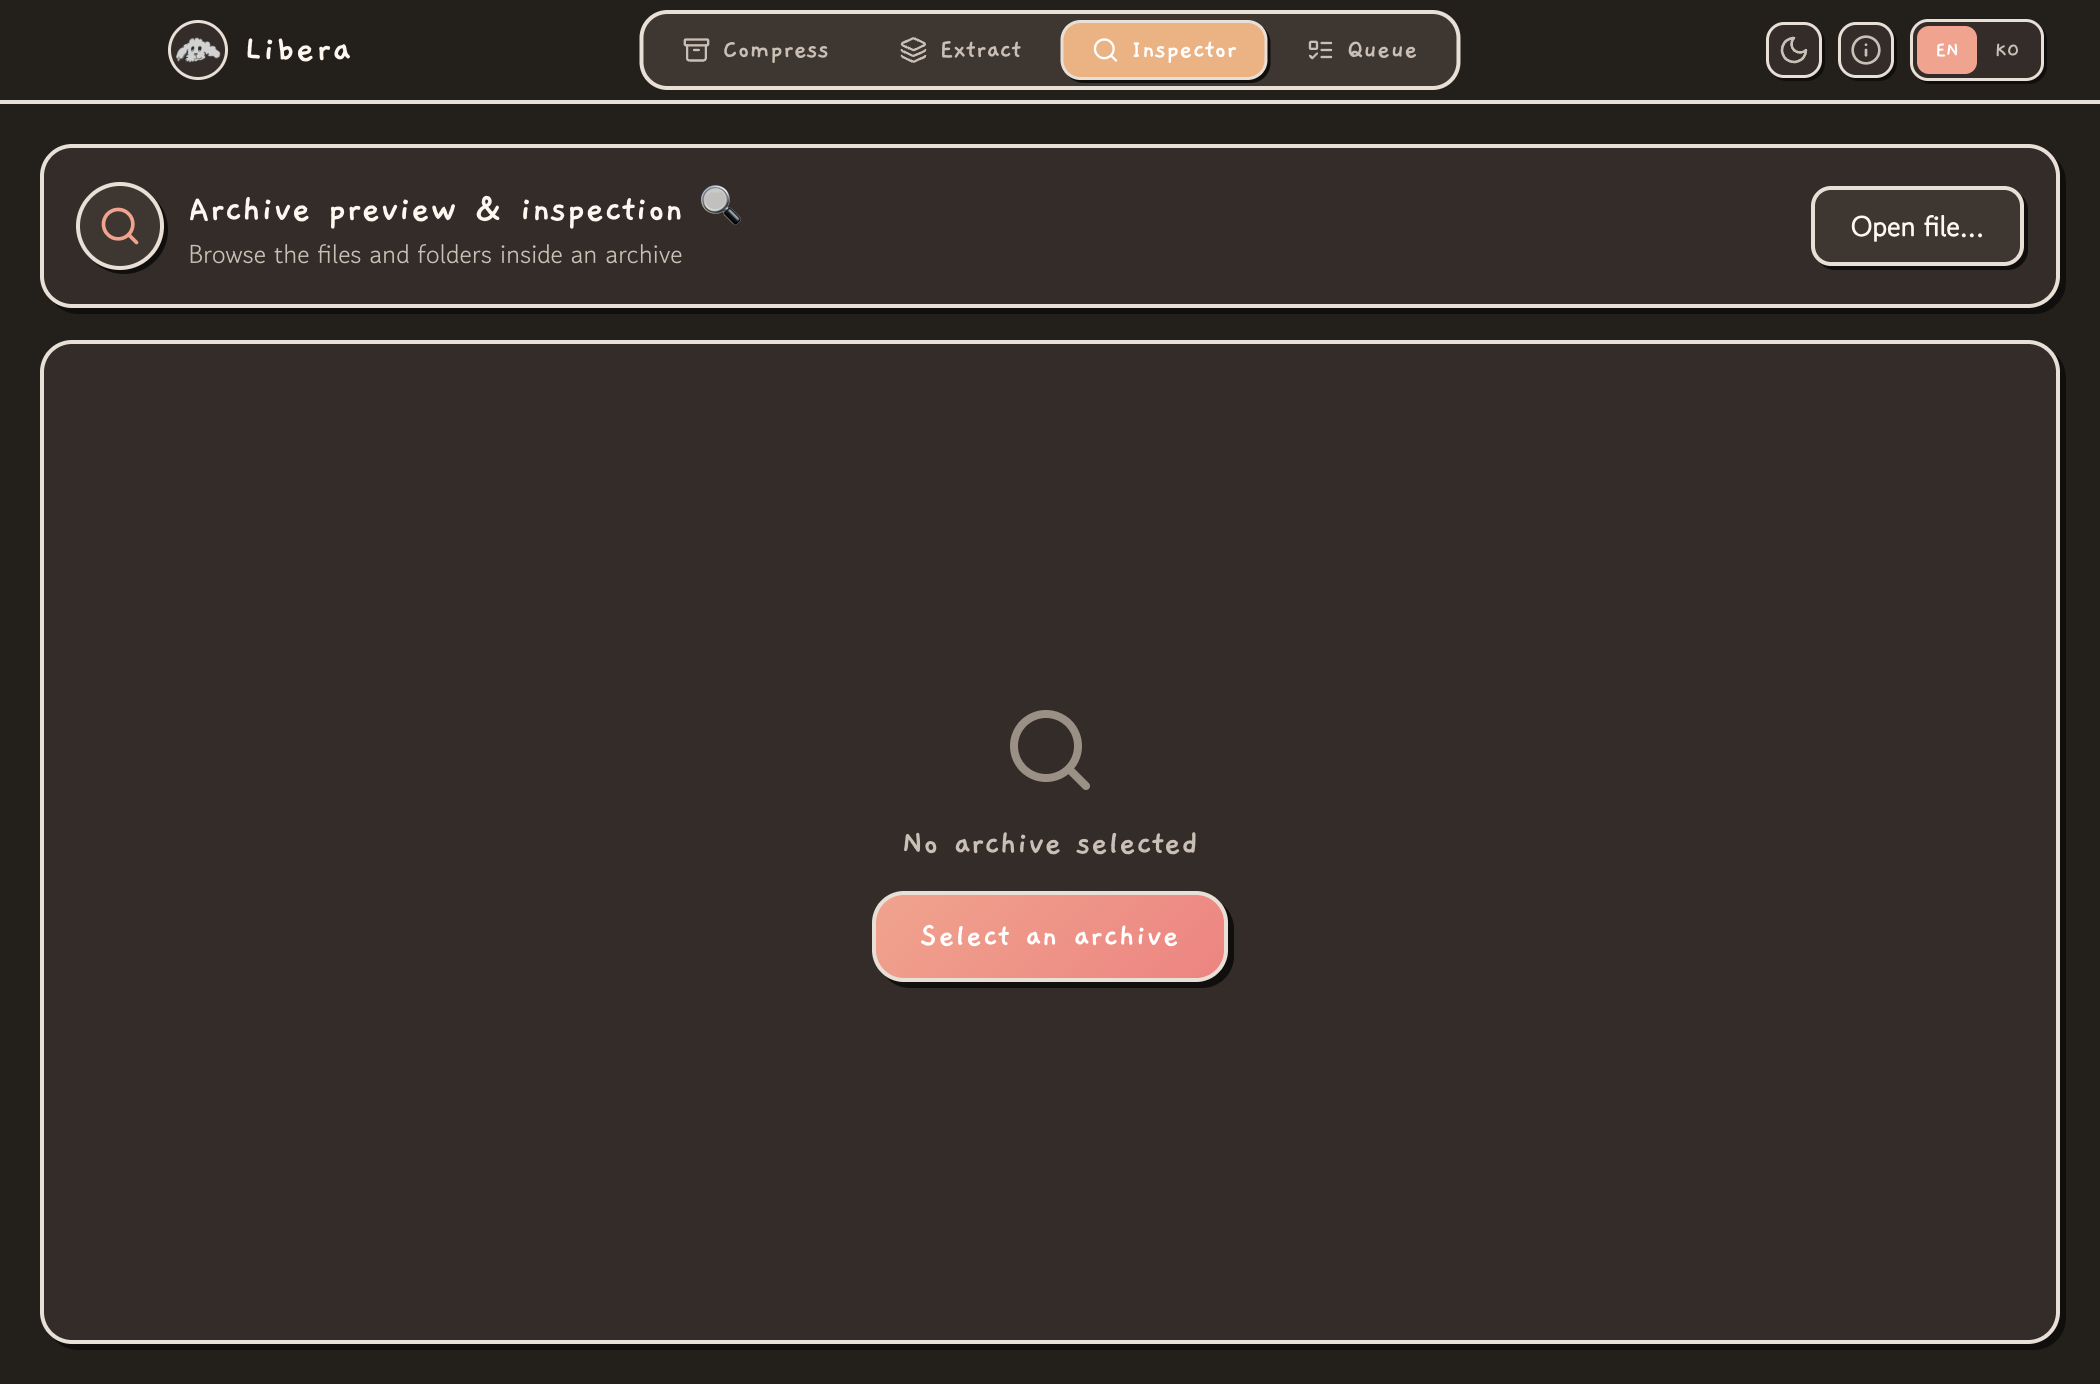
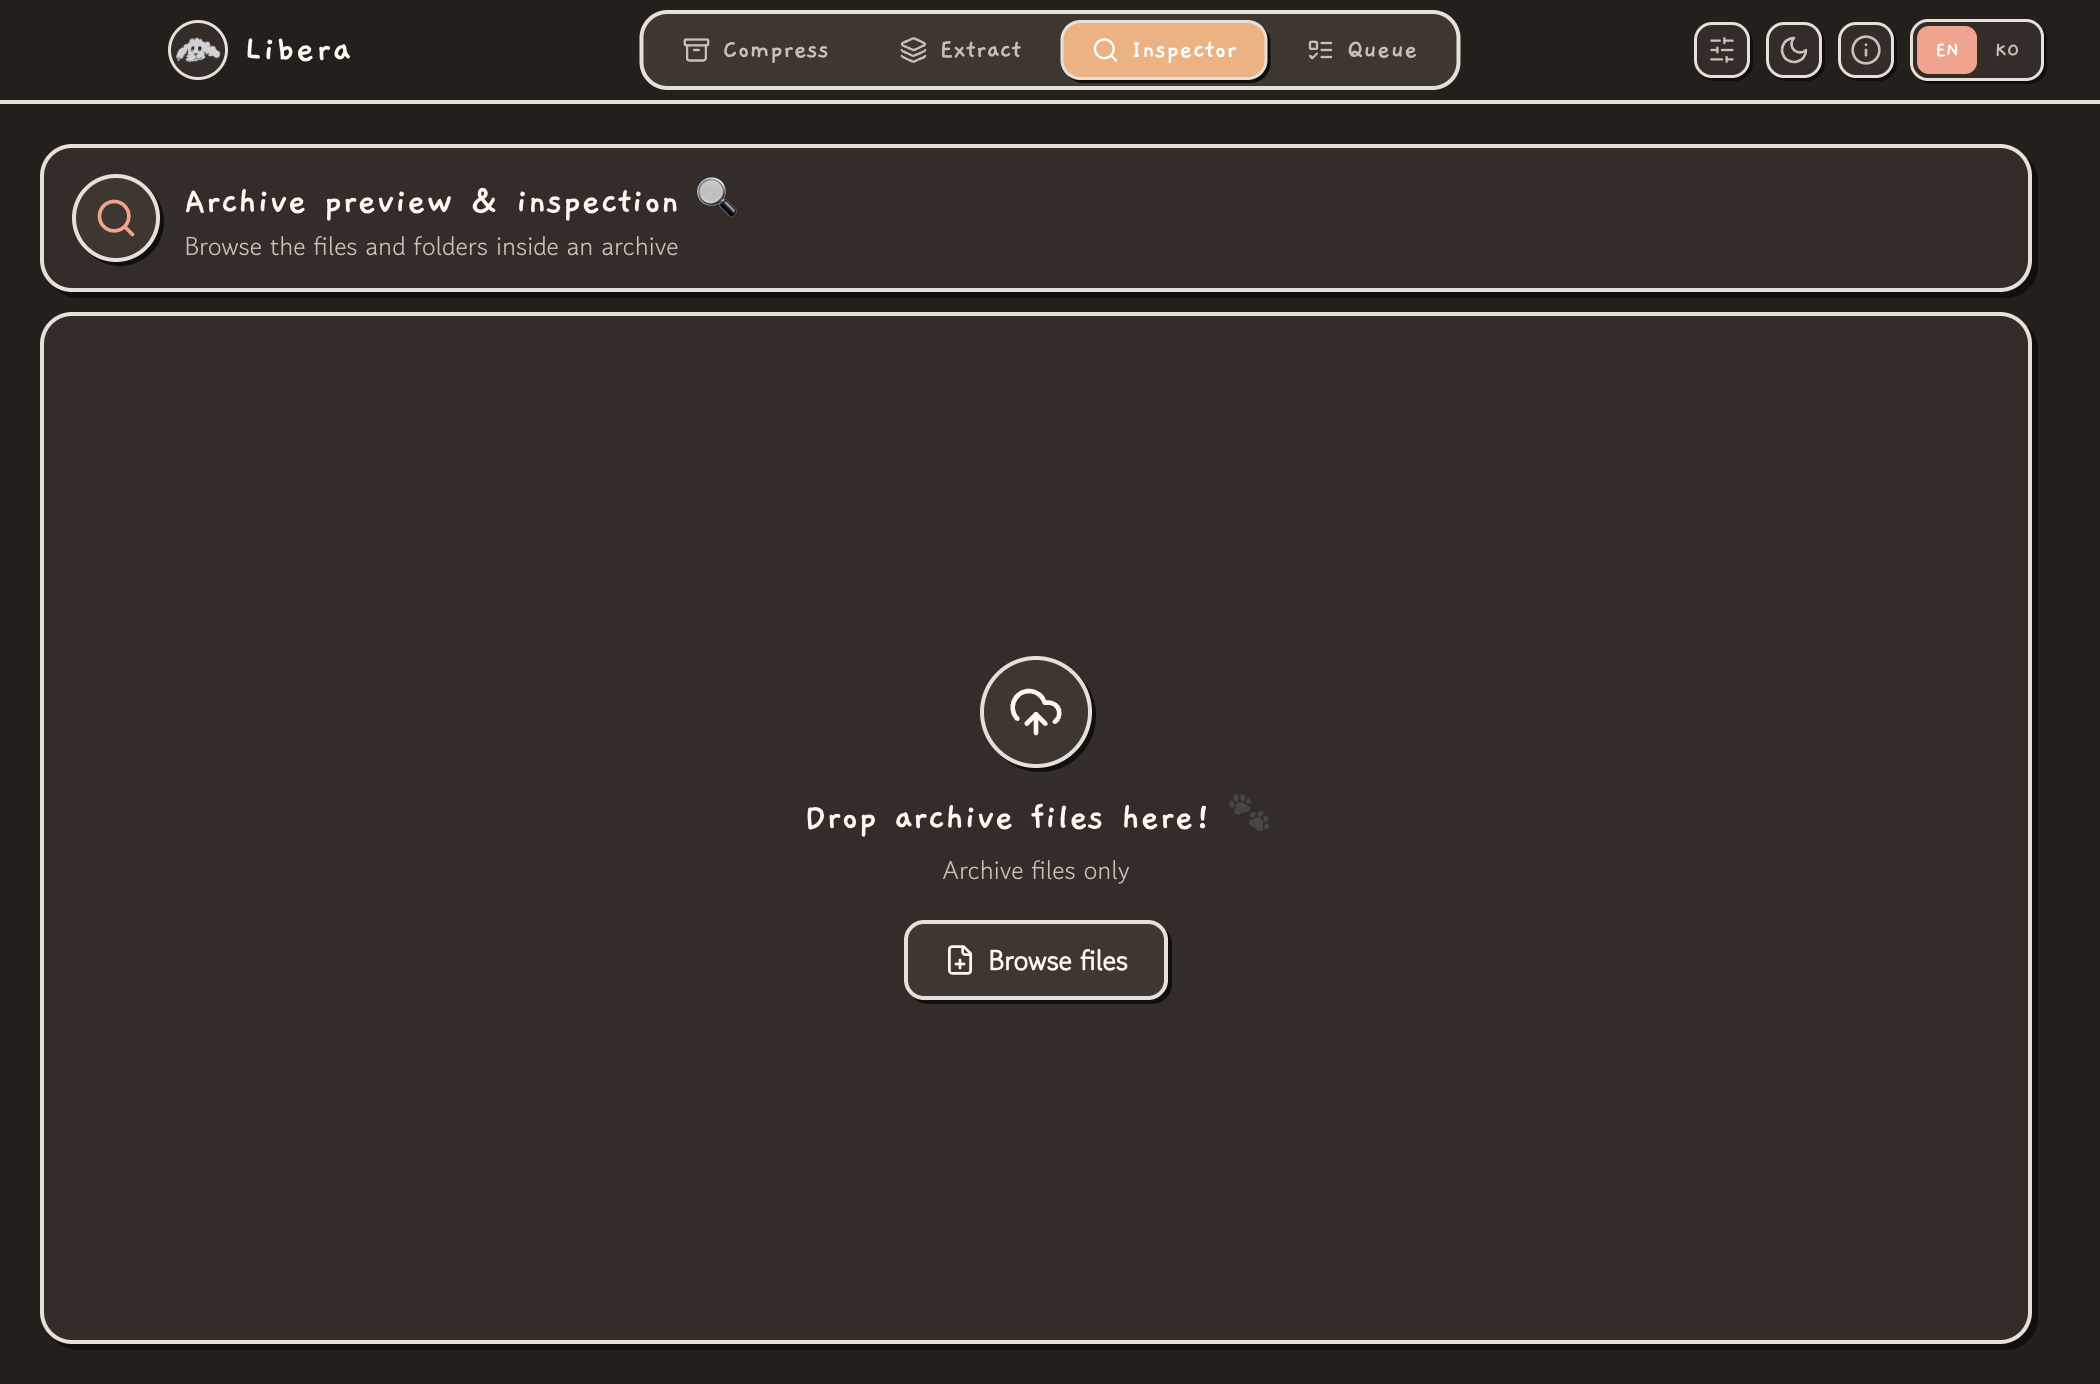
Hold the open dialog to what the extractor accepts
The dialog's filter list was kept in step by hand, which is how it came
to offer .xz and .bz2 long before either could be opened. Nothing but
attention was holding the two together.

- Pin the filter list against the supported extensions, both ways
- Recapture the site screenshots, which still showed five format
  buttons under a table promising seven

Changed region(s): [[0.0, 0.0932, 0.9905, 0.9632], [0.4024, 0.466, 0.5881, 0.7457], [0.8048, 0.0, 0.8357, 0.0621]]

diff --git a/src/services/archivePathParity.test.ts b/src/services/archivePathParity.test.ts
@@ -12,6 +12,22 @@ import {
 } from './compressor'
 import * as renderer from '../renderer/src/utils/archivePaths'
 
+/** What an open dialog filters on: the last suffix segment of a path. */
+function dialogExtension(extension: string): string {
+  return extension.split('.').pop() as string
+}
+
+/**
+ * The two the dialog offers that name a volume rather than a whole archive,
+ * each with the file it is there to let through. A 7z set's first volume is
+ * `name.7z.001`, so the filter needs `001` even though `name.001` alone is
+ * not an archive.
+ */
+const VOLUME_DIALOG_EXTENSIONS = [
+  { offered: 'z01', example: '/tmp/archive.z01' },
+  { offered: '001', example: '/tmp/archive.7z.001' }
+]
+
 // The renderer cannot import the services (they pull in fs/path), so it keeps
 // its own copy of the archive path rules. This pins the two together.
 describe('renderer archive path helper', () => {
@@ -52,6 +68,38 @@ describe('renderer archive path helper', () => {
 
     for (const candidate of candidates) {
       expect(renderer.isSupportedArchivePath(candidate)).toBe(isSupportedArchivePath(candidate))
+    }
+  })
+
+  // The open dialog filters on the last segment of a name, so `.tar.gz` reaches
+  // it as `gz`. Nothing held these two together before, which is how the dialog
+  // came to offer `.xz` and `.bz2` months before either could be opened.
+  it('offers every extension the extractor accepts', () => {
+    const offered = new Set(renderer.EXTRACT_DIALOG_EXTENSIONS)
+
+    for (const extension of SUPPORTED_ARCHIVE_EXTENSIONS) {
+      expect(offered, `${extension} is supported but the dialog hides it`)
+        .toContain(dialogExtension(extension))
+    }
+  })
+
+  it('offers nothing the extractor would then refuse', () => {
+    const accepted = new Set(SUPPORTED_ARCHIVE_EXTENSIONS.map(dialogExtension))
+
+    const volumeOffers = VOLUME_DIALOG_EXTENSIONS.map(volume => volume.offered)
+    for (const offered of renderer.EXTRACT_DIALOG_EXTENSIONS) {
+      if (volumeOffers.includes(offered)) continue
+      expect(accepted, `the dialog offers .${offered}, which cannot be opened`)
+        .toContain(offered)
+      // And the file the filter lets through really is one the app takes.
+      expect(isSupportedArchivePath(`/tmp/archive.${offered}`)).toBe(true)
+    }
+  })
+
+  it('offers the volume suffixes that stand in for a split set', () => {
+    for (const { offered, example } of VOLUME_DIALOG_EXTENSIONS) {
+      expect(renderer.EXTRACT_DIALOG_EXTENSIONS).toContain(offered)
+      expect(isSupportedArchivePath(example)).toBe(true)
     }
   })
 
